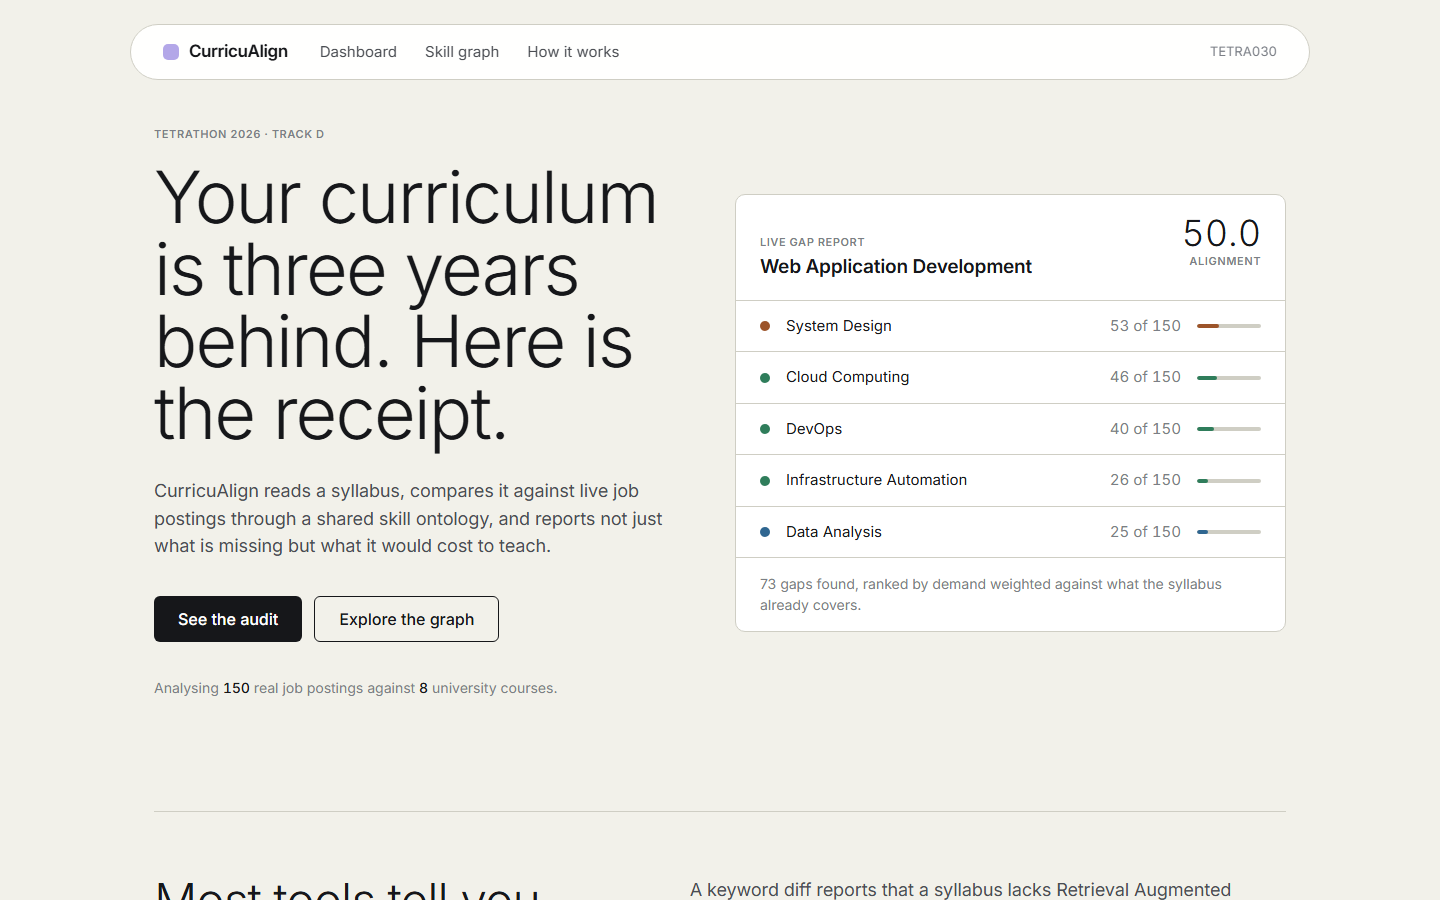
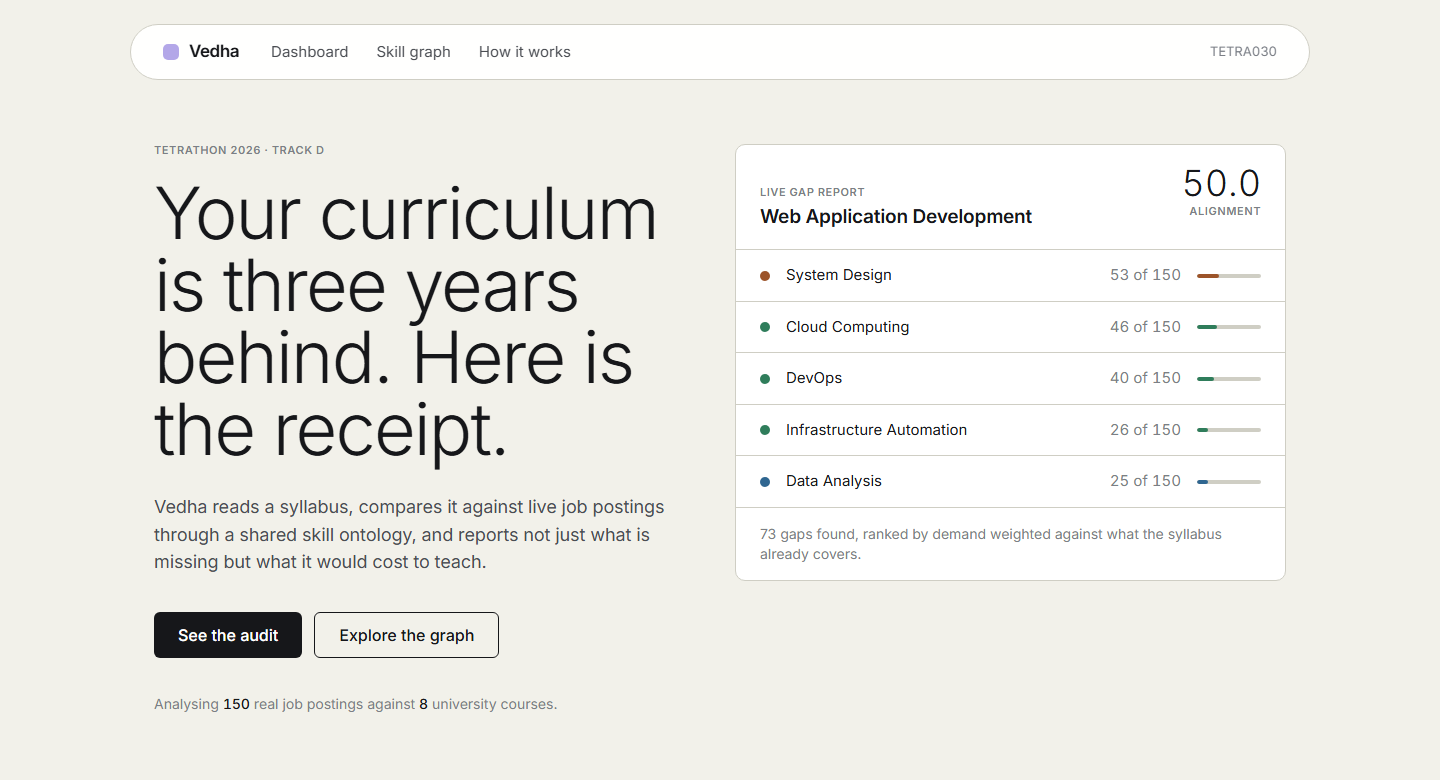
TETRA030: Rename the product to Vedha
CurricuAlign AI is the name given in the problem statement, so at least one
competing team is shipping under it too. A shared name means a judge
comparing submissions has nothing to distinguish them by before they read
the code.

Vedha means to pierce through, which is what the prerequisite chain does to
a curriculum: it cuts past the surface question of what a syllabus lacks to
the one that matters, which is what it would cost to teach.

The design spec and implementation plan keep the old name. They are a record
of decisions made at the time, and rewriting them would falsify that record.

Also added a section to the README stating plainly that no number in the
repository is mocked. Every posting was fetched, every syllabus is a real
university document, every gap figure is computed from the graph at request
time, and the panel on the landing page is a live API call rather than an
image.

diff --git a/frontend/app/layout.tsx b/frontend/app/layout.tsx
@@ -12,7 +12,7 @@ const inter = Inter({
 });
 
 export const metadata: Metadata = {
-  title: "CurricuAlign AI",
+  title: "Vedha",
   description:
     "Audits university syllabi against live job market data and proposes adoptable modifications.",
 };
@@ -41,7 +41,7 @@ export default function RootLayout({
                 style={{ backgroundColor: "var(--color-block-periwinkle)" }}
               />
               <span className="text-[17px] font-semibold tracking-tight">
-                CurricuAlign
+                Vedha
               </span>
             </Link>
 

diff --git a/frontend/app/about/page.tsx b/frontend/app/about/page.tsx
@@ -43,7 +43,7 @@ export default function AboutPage() {
         <p className="body-lg mt-5 max-w-3xl text-[var(--color-ink-soft)]">
           Higher education curricula lag three to five years behind market
           demand, and institutions have no automated way to measure the drift.
-          CurricuAlign maps course outcomes and live job postings onto one skill
+          Vedha maps course outcomes and live job postings onto one skill
           ontology, then quantifies the distance between them.
         </p>
       </section>

diff --git a/frontend/app/page.tsx b/frontend/app/page.tsx
@@ -60,7 +60,7 @@ export default async function LandingPage() {
             Your curriculum is three years behind. Here is the receipt.
           </h1>
           <p className="body-lg mt-7 max-w-xl text-[var(--color-ink-soft)]">
-            CurricuAlign reads a syllabus, compares it against live job postings
+            Vedha reads a syllabus, compares it against live job postings
             through a shared skill ontology, and reports not just what is
             missing but what it would cost to teach.
           </p>

diff --git a/frontend/lib/api.ts b/frontend/lib/api.ts
@@ -1,5 +1,5 @@
 /**
- * Typed client for the CurricuAlign API.
+ * Typed client for the Vedha API.
  *
  * Response shapes are derived from lib/api-types.ts, which is generated from
  * the backend's OpenAPI schema. Regenerate after changing an endpoint:

diff --git a/scripts/fetch_jobs.py b/scripts/fetch_jobs.py
@@ -147,7 +147,7 @@ def build_record(
 def fetch_json(url: str) -> dict:
     """Decode explicitly as UTF-8 rather than letting json infer it."""
     request = urllib.request.Request(
-        url, headers={"User-Agent": "CurricuAlign-AI/0.1 (hackathon project)"}
+        url, headers={"User-Agent": "Vedha-AI/0.1 (hackathon project)"}
     )
     with urllib.request.urlopen(request, timeout=30) as response:
         return json.loads(response.read().decode("utf-8"))

diff --git a/backend/app/main.py b/backend/app/main.py
@@ -9,7 +9,7 @@ from app.config import settings
 logging.basicConfig(level=logging.INFO)
 
 app = FastAPI(
-    title="CurricuAlign AI",
+    title="Vedha",
     version="0.1.0",
     description=(
         "Audits university syllabi against live job market data. Maps course "

diff --git a/backend/app/seed.py b/backend/app/seed.py
@@ -74,7 +74,7 @@ def seed(
 
 
 def main() -> int:
-    parser = argparse.ArgumentParser(description="Seed the CurricuAlign database")
+    parser = argparse.ArgumentParser(description="Seed the Vedha database")
     parser.add_argument(
         "--jobs",
         type=int,

diff --git a/README.md b/README.md
@@ -1,10 +1,12 @@
-# CurricuAlign AI
+# Vedha
 
 **TETRA030** | TetraTHON 2026, Track D (EdTech) | Problem Statement 1: Dynamic Syllabus and Industry Skill-Gap Synchronizer
 
+*Vedha* means to pierce through. That is what the prerequisite chain does to a curriculum: it cuts past the surface question of what a syllabus is missing to the one that matters, which is what it would cost to teach.
+
 Higher education curricula lag three to five years behind market demand. Institutions have no automated way to audit a syllabus against live job market data, so graduates earn top grades while carrying severe skill gaps.
 
-CurricuAlign AI ingests real syllabi and real job postings, maps both onto a shared skill ontology in Neo4j, quantifies the gap with evidence, and generates syllabus modifications a professor can adopt without redesigning the course.
+Vedha ingests real syllabi and real job postings, maps both onto a shared skill ontology in Neo4j, quantifies the gap with evidence, and generates syllabus modifications a professor can adopt without redesigning the course.
 
 ![Dashboard](docs/screenshots/dashboard.png)
 
@@ -26,6 +28,19 @@ A keyword diff reports that a syllabus lacks Retrieval Augmented Generation. Tha
 A recommendation becomes *"you cannot teach RAG until this chain is covered, in this order"* rather than *"you are missing RAG"*. Adding Kubernetes to a course already teaching Docker is one hop and cheap; adding RAG to a course covering none of its prerequisites is a different conversation entirely.
 
 That is also the answer to **why a graph database**: it is a variable-length path search, which a relational schema answers only with a recursive query that degrades with every hop.
+
+### Every number in this repository is real
+
+No mock data, no seeded fixtures, no hardcoded fallback skill lists.
+
+| | Source |
+|---|---|
+| 305 job postings | Fetched from Arbeitnow and Remotive, committed as a snapshot |
+| 8 course syllabi | Actual MSU Baroda BCA documents, split from the semester PDF |
+| 438 skills, 1474 aliases | Hand-curated taxonomy, every alias collision rejected at load time |
+| Every gap figure | Computed from the graph at request time |
+
+The screenshots below are of the running application against that data. The hero panel on the landing page is a live API call, not an image.
 
 ---
 
